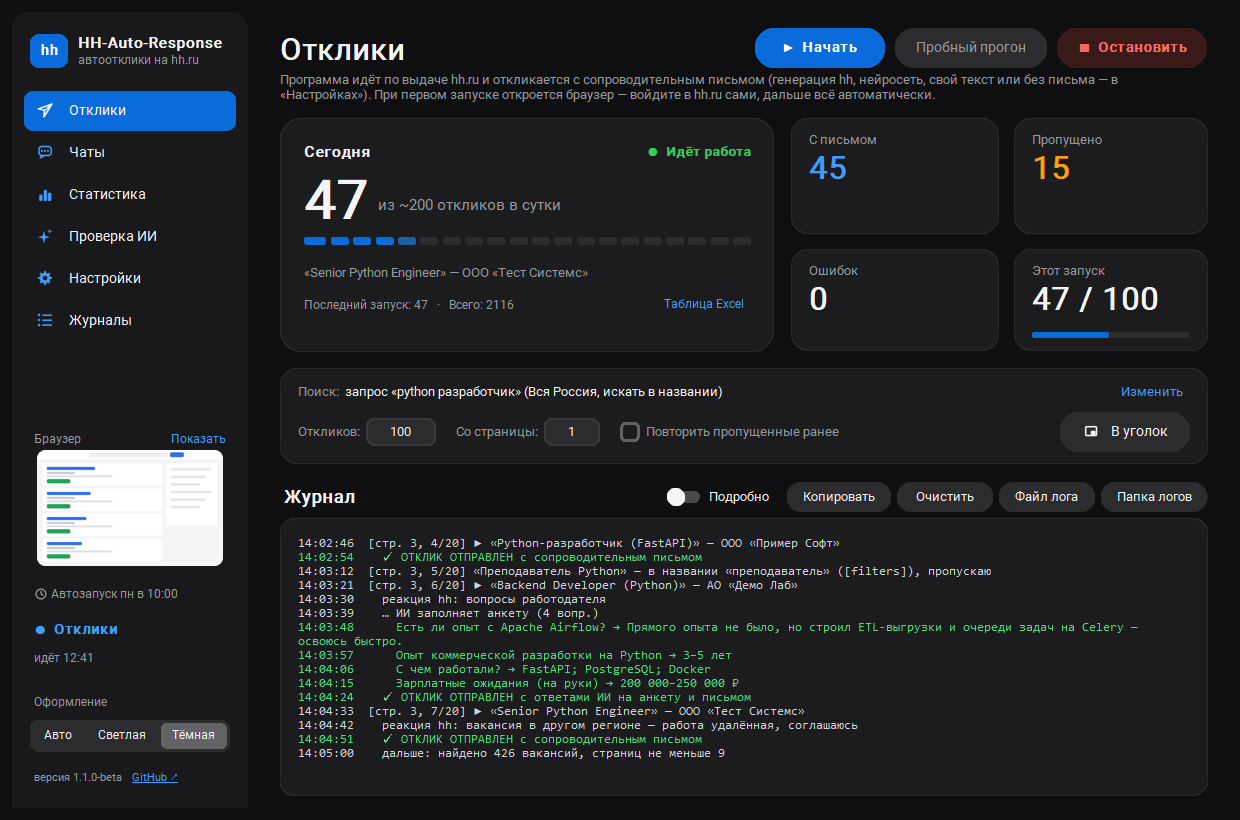
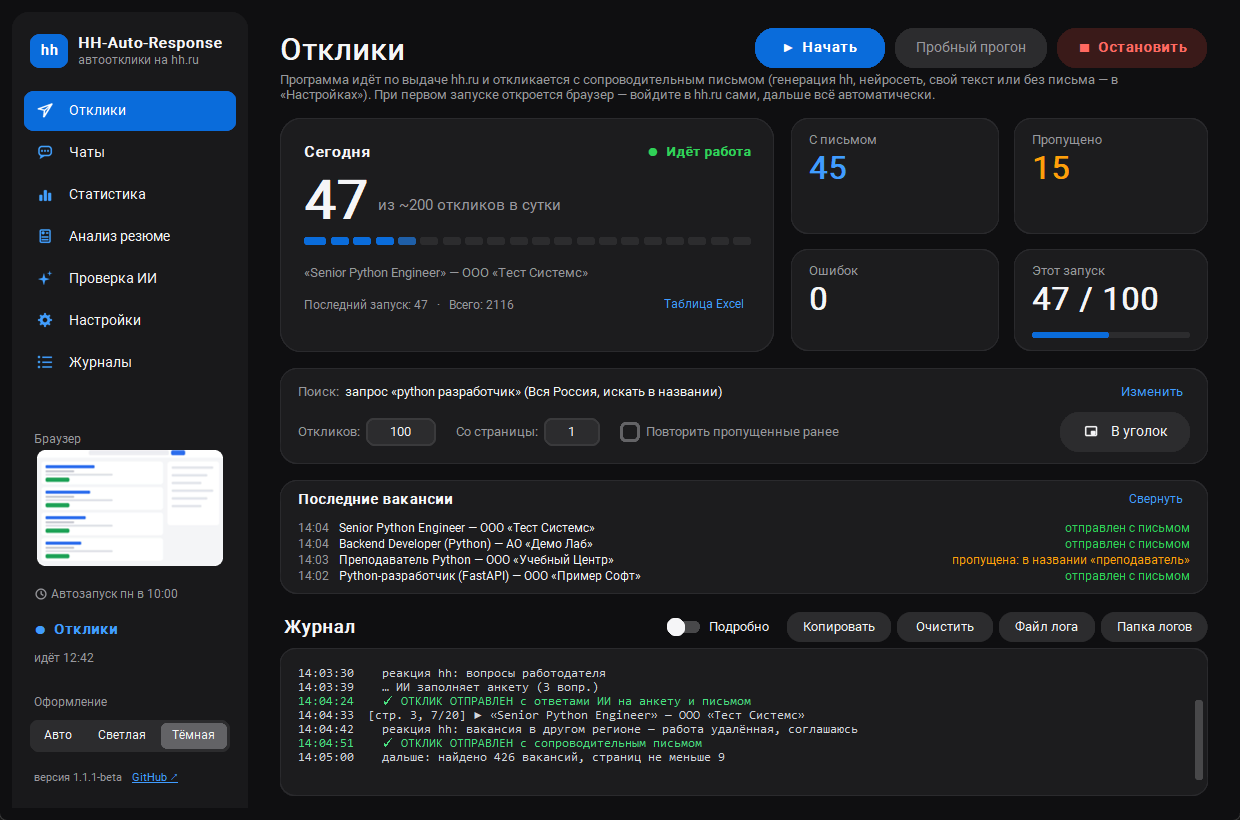
hotfix(resume analyze)

diff --git a/hh_auto/analysis/report.py b/hh_auto/analysis/report.py
@@ -168,6 +168,12 @@ def plural(n: int, one: str, few: str, many: str) -> str:
     return f"{n} {word}"
 
 
+def signed(value: float) -> str:
+    """Прибавка в процентах: «+12%», «−5%», «0%» (не «-0%»)."""
+    points = round(value * 100)
+    return "0%" if points == 0 else f"{points:+d}%".replace("-", "−")
+
+
 def _pct(value: float) -> str:
     return f"{value * 100:.0f}%"
 
@@ -271,8 +277,10 @@ def build(profile: ResumeProfile, vacancies: list[MarketVacancy], applied: set[s
 
     def value(name: str, current: dict[str, int]) -> float:
         # насколько навык приближает к вакансиям: прибавка к совпадению (1/размер) с весом «насколько вы
-        # к ней уже близки». Одна мелкая вакансия «Python + 1С» не перевешивает десяток Data-вакансий с ClickHouse
-        return sum(current[vid] / size[vid] ** 2 for vid in missing_in.get(name, ()))
+        # к ней уже близки». Одна мелкая вакансия «Python + 1С» не перевешивает десяток Data-вакансий с ClickHouse.
+        # Где вы уже подходите, прибавка весит вдвое меньше: навык, который открывает новые вакансии, полезнее
+        return sum(current[vid] / size[vid] ** 2 * (0.5 if current[vid] / size[vid] >= FIT else 1)
+                   for vid in missing_in.get(name, ()))
 
     def row(name: str) -> SkillRow:
         return SkillRow(name=name, kind=vocab.kind(name), count=count_near[name], share=count_near[name] / len(near),
@@ -529,7 +537,7 @@ def to_text(report: Report) -> str:
         out.append("\nНАВЫКИ РЫНКА (доля вашего рынка · зарплата · в резюме)")
         labels = {"key": "в навыках", "text": "только в опыте", "missing": "нет"}
         for r in report.market:
-            pay = f"{r.lift:+.0%}" if r.lift is not None else ""
+            pay = signed(r.lift) if r.lift is not None else ""
             extra = f"  +{r.gain} подходящих" if r.gain else ""
             out.append(f"  {r.name:<32} {_pct(r.share):>4}  {pay:>5}  {labels[r.status]}{extra}")
     if report.path:

diff --git a/hh_auto/ui/gui.py b/hh_auto/ui/gui.py
@@ -581,7 +581,9 @@ class RecentCard(Card):
     def _toggle(self) -> None:
         self._collapsed = not self._collapsed
         self.app.save_prefs(recent_collapsed=self._collapsed)
-        with frozen(self.master):
+        # замораживаем общую рамку страницы и журнала: журнал поднимается на место строк, и полосу между ними
+        # Windows иначе не перерисовывала — под свёрнутой карточкой оставалась старая строка
+        with frozen(self.app.main, flush=True):
             self._apply_collapsed()
 
     def _apply_collapsed(self) -> None:
@@ -2561,7 +2563,7 @@ class MarketSkillsCard(ReportCard):
                     row=n, column=0, sticky="ew", pady=1)
                 TextLabel(body, f"{r.share * 100:.0f}%", size=12).grid(row=n, column=1, sticky="w", padx=(14, 0))
                 lift = r.lift
-                TextLabel(body, "—" if lift is None else f"{lift * 100:+.0f}%", size=12,
+                TextLabel(body, "—" if lift is None else analysis.signed(lift), size=12,
                           color=MUTED if lift is None or abs(lift) < 0.05 else GREEN if lift > 0 else RED).grid(
                     row=n, column=2, sticky="w", padx=(14, 0))
                 text, color = SKILL_STATUS[r.status]
